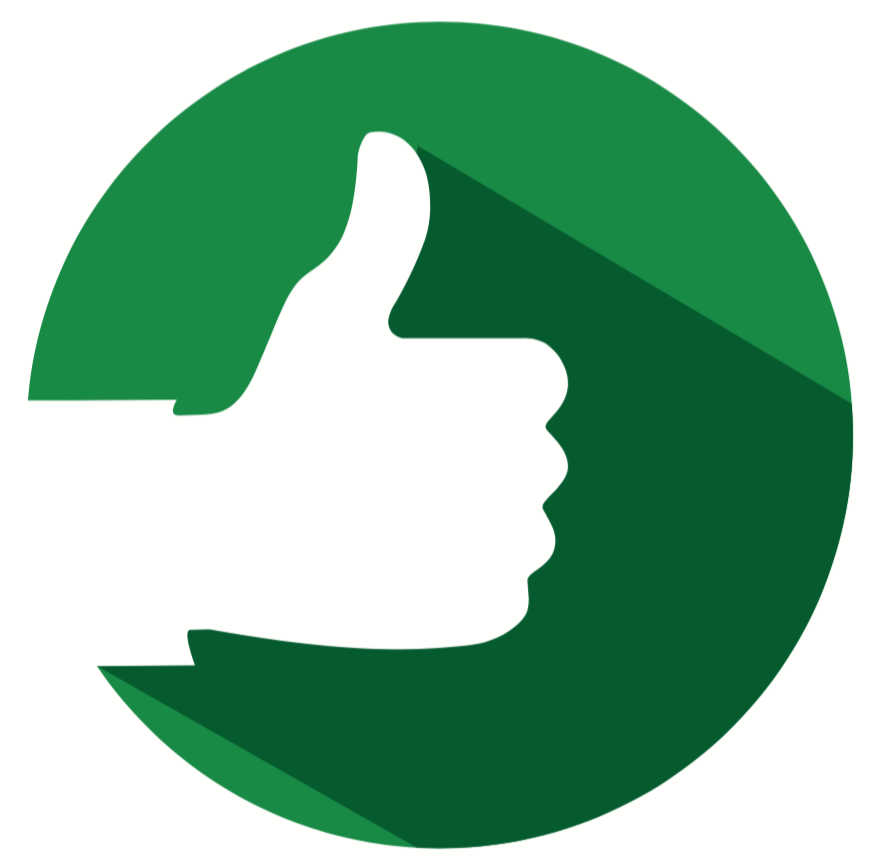
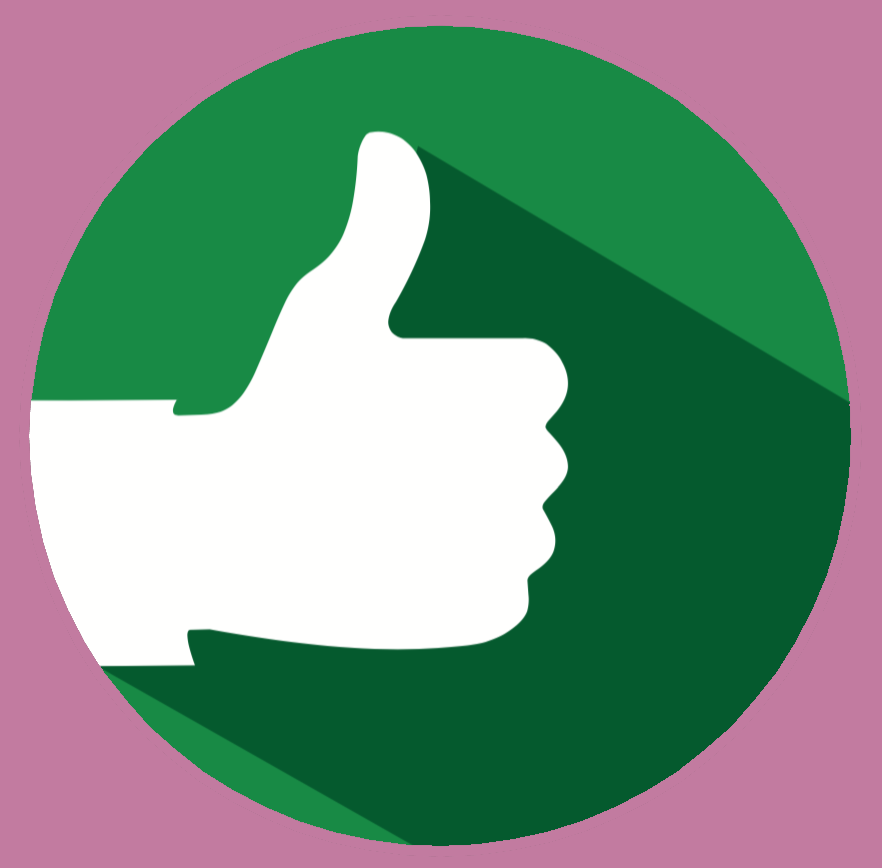
Motif de fond et réglage d'une image

diff --git a/Projet_WEB/css/style.css b/Projet_WEB/css/style.css
@@ -1,5 +1,8 @@
 body{
   font-family:'Lucida Sans Unicode', 'Lucida Grande', sans-serif;
+  background: linear-gradient(45deg, #f8f7fb 12.5%, #fff 12.5%, #fff 37.5%, #f8f7fb 37.5%, #f8f7fb 62.5%, #fff 62.5%, #fff 87.5%, #f8f7fb 87.5%);
+  background-size: 100px 100px;
+  background-position: 50px 50px;
   }
 
 #etat_connexion{
@@ -26,12 +29,24 @@ h4{
   padding:2%;}
 
 .bloc1{
-  background-color:#e3befc;
+  background-color:#d9d2e9ff;
   font-family:Georgia, serif;
   width:70%;
   padding:5%;
   margin:auto;
   box-shadow: 2px 2px 5px #6a6a6a;}
+
+.bloc2{
+  color:white;
+  font-family:Georgia, serif;
+  background-color:#c27ba0ff;
+  border-color : #595959;
+  border-radius : 2%;
+  border-style:solid;
+  border-width:7%;
+  width:80%;
+  padding:5%;
+  margin:auto;}
 
 .bouton1{
   color:white;
@@ -43,6 +58,7 @@ h4{
   text-align:center;}
 
 .bouton2{
+  background-color:#d9d2e9ff;
   font-family:Verdana, serif;
   box-shadow: 1px 1px 4px #6a6a6a;
   height:43px;
@@ -65,18 +81,6 @@ h4{
   border-width:7%;
   width:65%;
   height:97%;
-  padding:5%;
-  margin:auto;}
-
-.bloc2{
-  color:white;
-  font-family:Georgia, serif;
-  background-color:#c27ba0ff;
-  border-color : #595959;
-  border-radius : 2%;
-  border-style:solid;
-  border-width:7%;
-  width:80%;
   padding:5%;
   margin:auto;}
 

diff --git a/Projet_WEB/pages/resultat.php b/Projet_WEB/pages/resultat.php
@@ -58,7 +58,7 @@
           ?>
           <p>Pas mal ! Votre score est de : <?php echo $cpt_bonne_rep ?></p>
           <div class="image">
-            <img src="../images/pouce_haut.png" alt="Pas mal...réessayez !" height="30%"/><br/>
+            <img src="../images/pouce_haut.png" alt="Pas mal...réessayez !" height="85px" width="85px"/><br/>
           </div>
           <?php
         }
